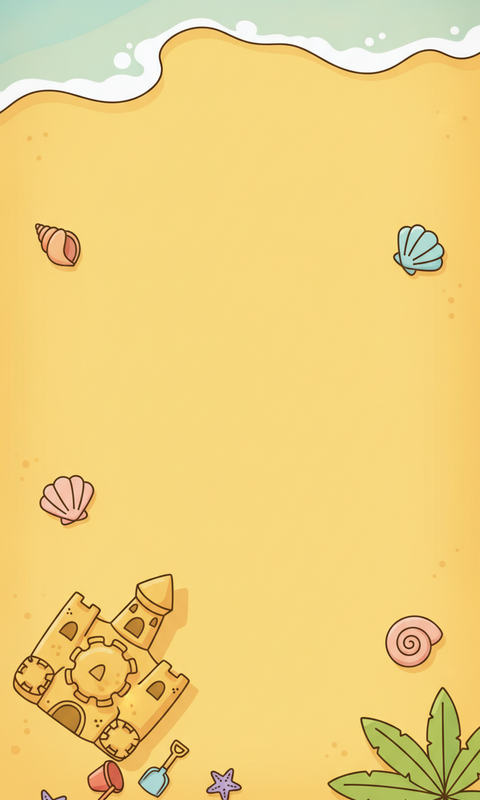
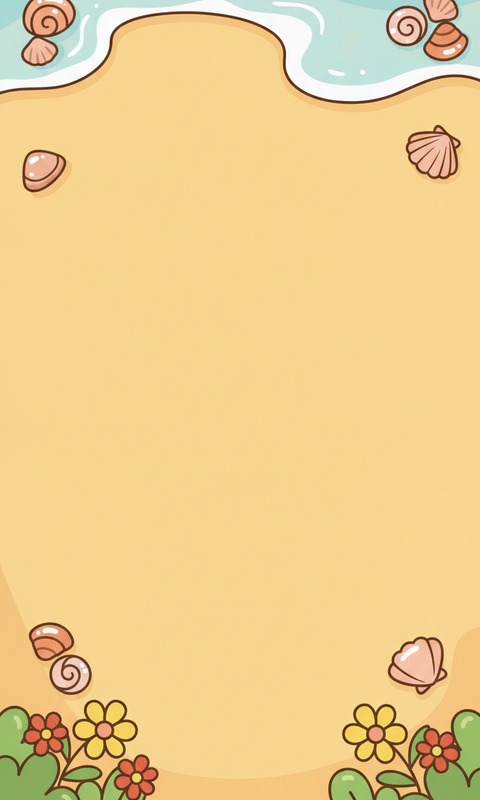
Defender: calmer Beach and Night Sky arenas
The Night Sky arena had a large telescope and picnic set in the play area; it is now a dark lawn
with a soft glow in the middle, a few stars and fireflies, and a small blanket in one corner (no
moon with a face that could read as a myth). The Beach loses its sandcastle; shells stay in the
corners. Prompts updated in tools/gen_art.py so a regenerate keeps them clear. Build 24, cache b24.

Claude-Session: https://claude.ai/code/session_01EFREJBX8jm5rRQPAyJTUcN

diff --git a/defender/index.html b/defender/index.html
@@ -354,7 +354,7 @@
     <div class="wallet"><span class="pill coins">🪙 <span class="coinsN">0</span></span><span class="pill gems">💎 <span class="gemsN">0</span></span><span class="pill tix">🎟 <span class="tixN">0</span></span></div>
     <h1 class="display"><small>Why, Dad?</small>Defender</h1>
     <p class="tag hand">No dodging. Only wondering.</p>
-    <div class="build">build 23</div>
+    <div class="build">build 24</div>
     <canvas id="titleParty" width="880" height="600"></canvas>
     <div class="side">
       <button class="btn big-icon ghost" id="openParty">🧑🤝🧑<small>Party</small></button>

diff --git a/defender/sw.js b/defender/sw.js
@@ -1,6 +1,6 @@
 // Why, Dad? Defender: offline first. Everything the game needs is cached on first visit,
 // so it opens with no signal. Bump CACHE when the build changes.
-const CACHE = 'whydad-defender-b23';
+const CACHE = 'whydad-defender-b24';
 const CORE = ['./', './index.html', './manifest.json',
   './assets/mascot_wave.png', './assets/mascot_pointing.png', './assets/mascot_amazed.png', './assets/mascot_talking.png', './assets/webster.png',
   './assets/icon-192.png', './assets/icon-512.png',

diff --git a/defender/tools/gen_art.py b/defender/tools/gen_art.py
@@ -41,11 +41,11 @@ ARENAS = [
     'a backyard lawn with a white picket fence around the edge and flower beds',
     'a pond with lily pads and reeds in a ring around a small grassy island',
     'a library with wooden floorboards, a round red rug in the middle and bookshelves around the edge',
-    'a sandy beach with gentle waves along the top edge, shells and a sandcastle',
+    'a sandy beach with gentle waves along the top edge, and a few small shells only in the corners',
     'a desert with dune ripples, a few cacti and bleached rocks',
     'pale blue-white snowy arctic ground with soft blue shadows, ice cracks, snow drifts and a small igloo',
     'a jungle floor crowded with big leaves and vines around the edge',
-    'a night-time lawn under a starry sky with a telescope and a picnic blanket',
+    'a night-time lawn under a starry sky, dark blue-green grass with a soft silvery glow in the middle as if lit by moonlight from off the picture (the moon itself is not in the picture), a few tiny stars and fireflies, and only a tiny folded picnic blanket tucked into one bottom corner',
 ]
 MAPS = [
     'a backyard with a red garden shed, a picket fence and flower beds, under a plain blue sky with a few clouds and no sun',
